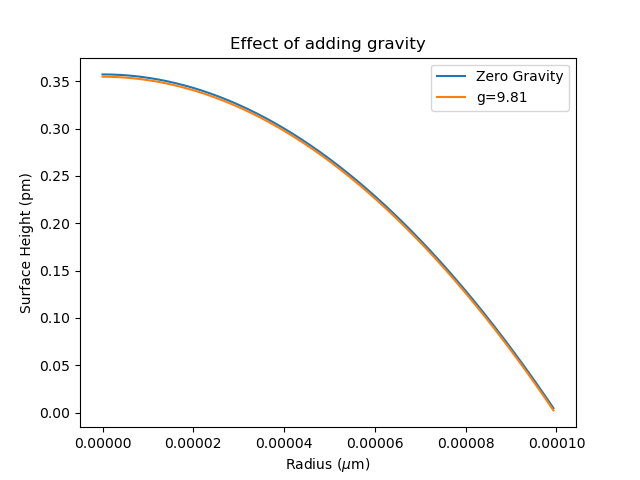
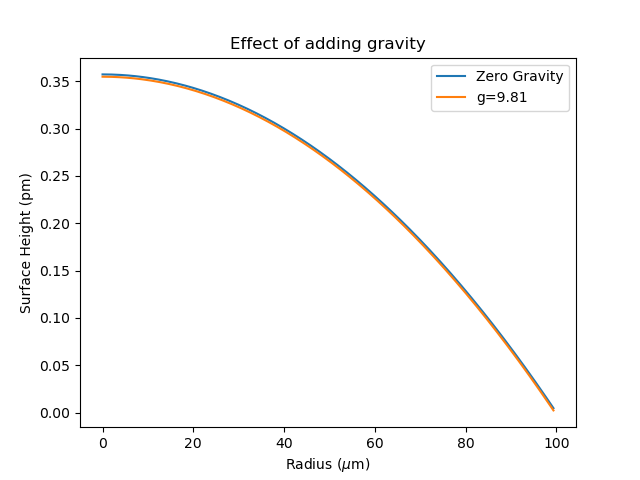
Updated smallgrav.png

diff --git a/src/Visualisation.py b/src/Visualisation.py
@@ -5,7 +5,7 @@ n=300
 
 sf = 1E9
 
-R = 1E-4
+R = 1E2
 
 init = "Initial.dat"
 fin = "Final.dat"
